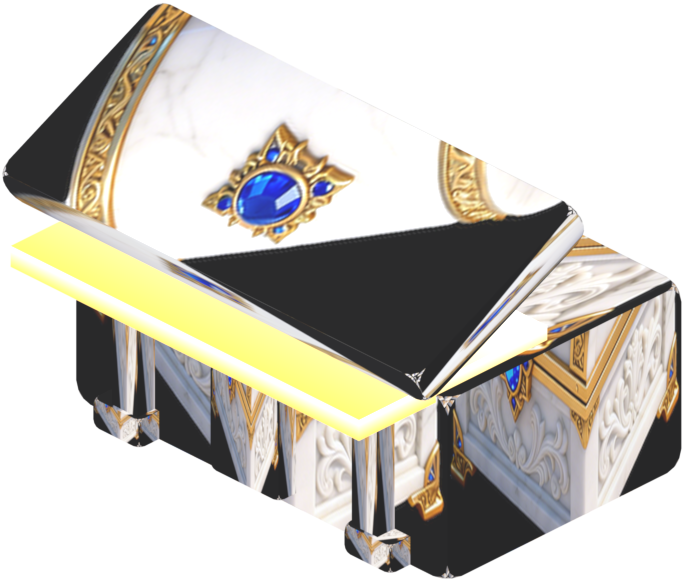
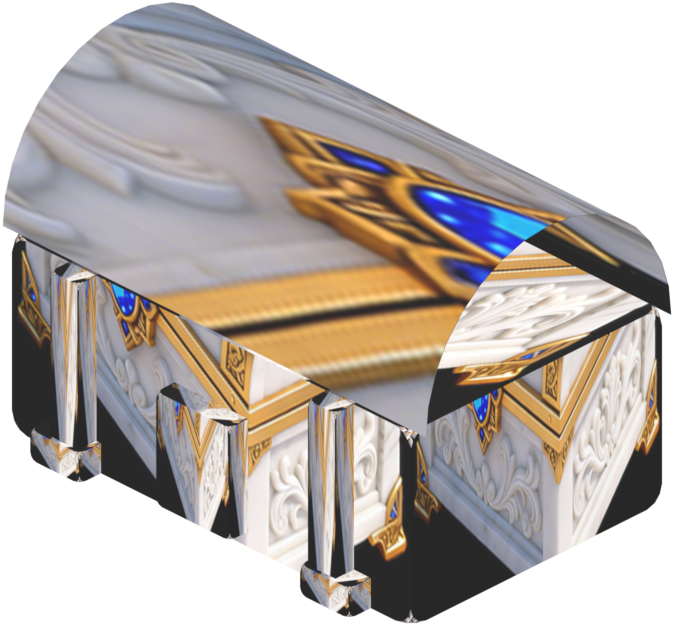
feat(npc)+docs(skill): 宝箱改经典造型——下方立方体+上方放倒半圆柱拱盖（cylinder 图元）
- render-factory-real.py 新增 cylinder 图元（放倒半圆柱：轴沿X、保留z>=0上拱、底平贴箱顶）
- chest.json：箱体立方体 + 半圆柱拱盖（138x40，材质 chest_body_tex）+ 铁箍/锁/箱脚，
  保持 2:1 等距菱形视角（elevation 30 + azimuth 45）
- 入库紧身裁剪 674x626，NPC sprite size 180/sizeH 167/footOffsetY 84，clickArea 180x167
- SKILL：宝箱造型铁律（立方体+半圆柱拱盖）与 cylinder 图元用法

diff --git a/tools/ai-gen/render-factory-real.py b/tools/ai-gen/render-factory-real.py
@@ -132,6 +132,24 @@ def make_prism(L, W, H):
     return o
 
 
+def make_half_cylinder(L, R, segments=32):
+    """放倒的半圆柱（拱形盖）：轴沿 X，保留 z>=0 的上拱，底面平切在 z=0（贴箱体顶面）。"""
+    bpy.ops.mesh.primitive_cylinder_add(radius=R, depth=L, vertices=segments)
+    o = bpy.context.active_object
+    o.rotation_euler = (0, math.radians(90), 0)  # 轴 Z -> X
+    bpy.context.view_layer.update()
+    bpy.ops.object.transform_apply(rotation=True, scale=True)
+    import bmesh
+    bpy.ops.object.mode_set(mode="EDIT")
+    bm = bmesh.from_edit_mesh(o.data)
+    for v in list(bm.verts):
+        if v.co.z < -0.001:
+            bm.verts.remove(v)
+    bmesh.update_edit_mesh(o.data)
+    bpy.ops.object.mode_set(mode="OBJECT")
+    return o
+
+
 def make_textured_mat(name, img, roughness=0.85, metallic=0.0, bump_strength=0.25):
     mat = bpy.data.materials.new(name)
     mat.use_nodes = True
@@ -230,7 +248,12 @@ def build_scene(spec, slide):
         rot_z = rot[2]
     for i, p in enumerate(spec["primitives"]):
         t = p.get("type", "box")
-        if t == "prism":
+        if t == "cylinder":
+            w, d, h = p["size"]
+            o = make_half_cylinder(w, d)
+            o.scale = (1, 1, h / d if d else 1)
+            o.location = (0, 0, 0)
+        elif t == "prism":
             w, d, h = p["size"]
             o = make_prism(w, d, h)
         else:
@@ -247,7 +270,9 @@ def build_scene(spec, slide):
             bevel_corners(o, amount=float(p["bevel"]),
                           segments=int(p.get("bevelSegments", 3)),
                           top_only=bool(p.get("bevelTopOnly", False)))
-        box_full_uv(o)
+        # 圆柱/半圆柱保持默认柱面 UV（box_full_uv 只适合轴对齐盒面）
+        if t != "cylinder":
+            box_full_uv(o)
         if p.get("material") == "lid":
             o.data.materials.append(lid_mat)
         elif p.get("material") == "roof":
